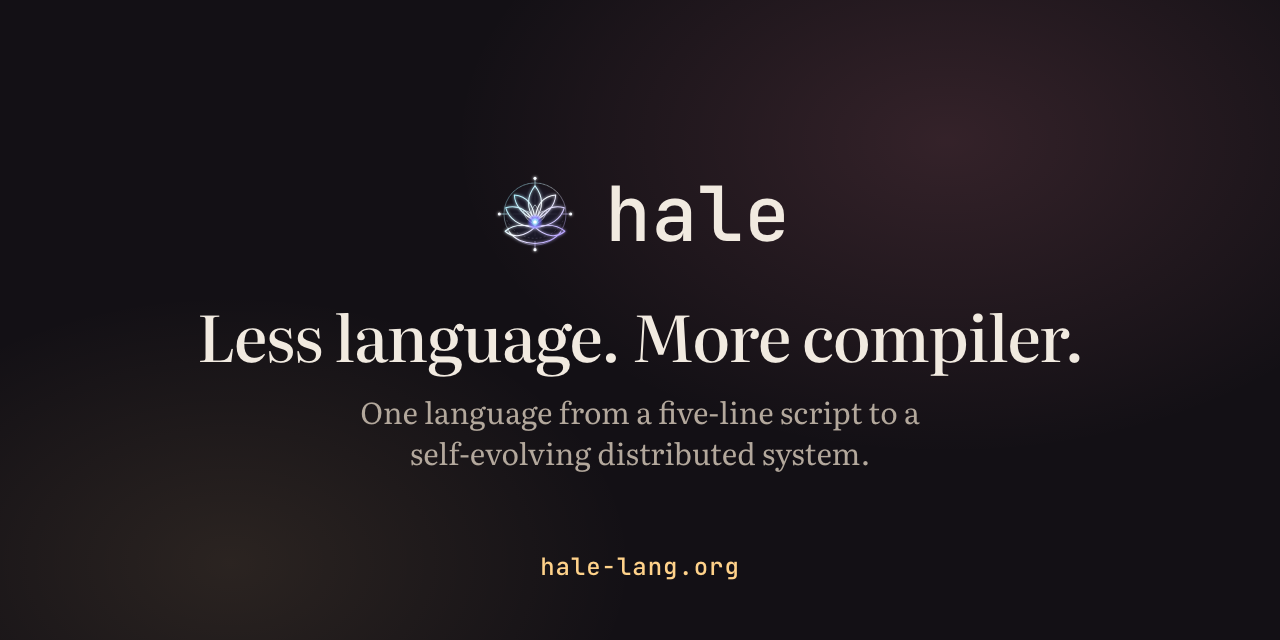
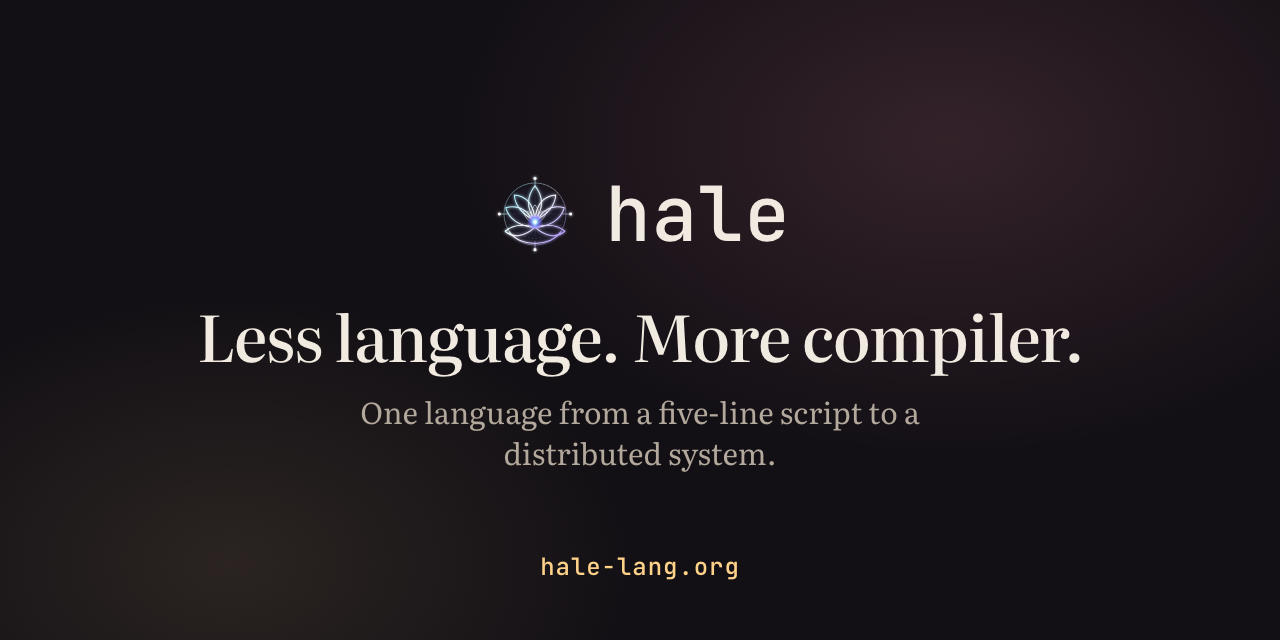
home: a plainer promise, the thesis, the limits and the record
Five changes from a read of the homepage by a newcomer.

The hero promises "one language from a five-line script to a
distributed system"; "self-evolving" read as an AI claim before the
reader reaches the DNA section that explains the review gates. The
social card follows.

Under the "same construct" section, two short paragraphs name what the
examples add up to: an abstract systems language, which lets a program
declare the parts of a system and checks them; and the answer to "is
this OTP with types": the compiler knows the whole message graph before
the program runs, and the program compiles to a native binary with no
virtual machine and no garbage collector.

A new section says what the build fails on, what the compiler does not
check (what a handler computes, time, information flow, calls it cannot
resolve, the runtime's own code), and where Hale is slower than Go.
The table is the README's, read at build time by scripts/sync-docs.mjs
into src/generated/performance.json with its version, date and machine,
so the site and the README cannot disagree; it links the bench repo.

The homepage's DNA section names its services plainly (Postgres,
NATS, Prometheus) and leaves organism, nerves, senses and habitat to
the DNA page.

"Built in the open" shows the recent releases and how many the
changelog lists, read from the CHANGELOG headings into
src/generated/releases.json, beside links to the changelog, pull
requests, issues and benchmarks. The community page shows the last ten.

Changed region(s): [[0.3125, 0.6875, 0.6875, 0.75]]

diff --git a/src/styles/global.css b/src/styles/global.css
@@ -530,3 +530,44 @@ a.term[data-gloss]:hover::after, a.term[data-gloss]:focus-visible::after { displ
 
 /* a ruled list inside prose keeps its own edge */
 .prose .facts, .prose .nots { padding-left: 0; }
+
+/* ---------------- the thesis, and the Erlang answer ---------------- */
+.thesis { display: grid; grid-template-columns: minmax(0, 1fr) minmax(0, 1fr); gap: var(--s12); margin-top: var(--s12); padding-top: var(--s8); border-top: 1px solid var(--hair); }
+.thesis h3 { margin: 0 0 var(--s3); }
+.thesis p { color: var(--ink-2); margin: 0; }
+
+/* ---------------- what it rejects, what it misses, where it is slower ---------------- */
+.checks { display: grid; grid-template-columns: minmax(0, 1fr) minmax(0, 1fr); gap: var(--s12); }
+.checks h3, .perf h3 { margin: 0 0 var(--s4); }
+.checks .facts li { grid-template-columns: 11rem minmax(0, 1fr); }
+.perf { margin-top: var(--s12); max-width: 52rem; }
+.perf .tbl td.num { font-family: var(--mono); font-size: 0.82rem; text-align: right; white-space: nowrap; color: var(--ink); }
+.perf .tbl th:not(:first-child) { text-align: right; }
+.perf .tbl td.faster { color: var(--jade); }
+.perf .tbl td.slower { color: var(--accent); }
+.perf .tbl td:first-child { font-weight: 400; white-space: normal; }
+.perf .tbl td:first-child code { font-size: 0.8rem; }
+
+/* ---------------- built in the open ---------------- */
+.cadence { color: var(--ink-2); margin: 0 0 var(--s3); }
+.releases { list-style: none; margin: 0; padding: 0; border-top: 1px solid var(--hair); }
+.releases li { display: grid; grid-template-columns: 5.5rem 7.5rem minmax(0, 1fr); gap: var(--s4); padding: var(--s3) 0; border-bottom: 1px solid var(--hair); align-items: baseline; }
+.releases .ver { font-family: var(--mono); font-size: 0.86rem; text-decoration: none; }
+.releases .date { font-family: var(--mono); font-size: 0.76rem; color: var(--ink-2); font-variant-numeric: tabular-nums; }
+.releases .title { color: var(--ink); }
+.grid4.two { grid-template-columns: repeat(2, minmax(0, 1fr)); margin-top: 0; }
+.grid4.two > * { border-bottom: 1px solid var(--hair); }
+.grid4.two > *:nth-child(2n) { border-right: 0; }
+.grid4.two > *:nth-last-child(-n + 2) { border-bottom: 0; }
+
+@media (max-width: 1100px) {
+  .thesis, .checks { grid-template-columns: minmax(0, 1fr); gap: var(--s8); }
+}
+@media (max-width: 640px) {
+  .checks .facts li { grid-template-columns: minmax(0, 1fr); }
+  .releases li { grid-template-columns: 5.5rem minmax(0, 1fr); }
+  .releases .title { grid-column: 1 / -1; }
+  .grid4.two { grid-template-columns: minmax(0, 1fr); }
+  .grid4.two > * { border-right: 0; border-bottom: 1px solid var(--hair); }
+  .grid4.two > *:last-child { border-bottom: 0; }
+}

diff --git a/scripts/og-card.html b/scripts/og-card.html
@@ -63,7 +63,7 @@
     <div class="name">hale</div>
   </div>
   <p class="tag">Less language. More compiler.</p>
-  <p class="sub">One language from a five&#8209;line script to a self&#8209;evolving distributed system.</p>
+  <p class="sub">One language from a five&#8209;line script to a distributed system.</p>
   <div class="foot">hale-lang.org</div>
 </body>
 </html>
